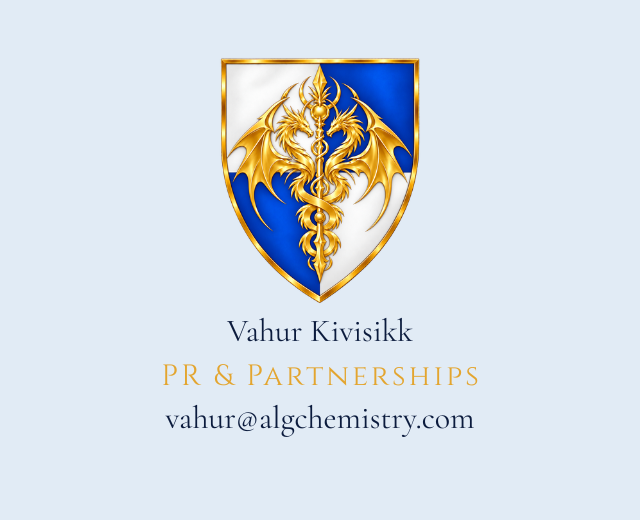
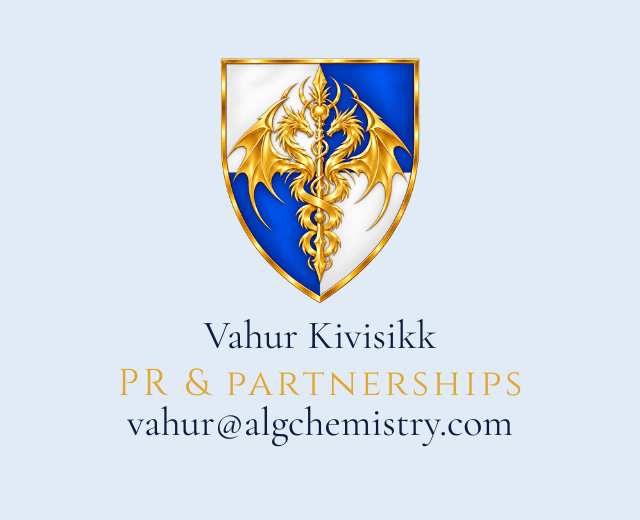
Sample: business cards with larger text, crop window x 65-575

Changed region(s): [[0.1875, 0.6769, 0.8125, 0.8615], [0.3125, 0.6154, 0.6875, 0.6769]]

diff --git a/index.html b/index.html
@@ -148,9 +148,9 @@ section{padding-block:var(--vahe)}
 }
 .kaart a:hover{color:var(--sygav)}
 @media (max-width:56rem){ .kaardid{grid-template-columns:repeat(2, 1fr)} }
-/* kaardi pilt 640 x 520: kuvatakse ala x 70-570, y 38-458, kus on kõigi nelja kaardi sisu; tühi taust jääb raamist välja. Kaart täidab veeru, nii et vapp on sama suur kui 400 px aknaga 80 % laiusel */
-a.kaart{display:block; position:relative; overflow:hidden; width:100%; max-width:18rem; margin-inline:auto; aspect-ratio:500 / 420}
-.kaart img{position:absolute; width:128%; max-width:none; height:auto; left:-14%; top:-9.0476%}
+/* kaardi pilt 640 x 520: kuvatakse ala x 65-575, y 38-458, kus on kõigi nelja kaardi sisu; tühi taust jääb raamist välja. Kaart täidab veeru; nimi on arvutis umbes 20 px */
+a.kaart{display:block; position:relative; overflow:hidden; width:100%; max-width:18rem; margin-inline:auto; aspect-ratio:510 / 420}
+.kaart img{position:absolute; width:125.4902%; max-width:none; height:auto; left:-12.7451%; top:-9.0476%}
 @media (max-width:34rem){ .kaardid{grid-template-columns:1fr; gap:2.75rem} }
 
 
